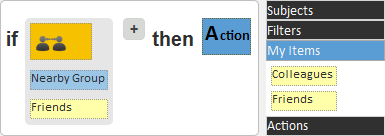
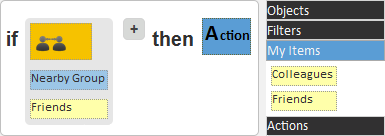
changed 'subject' label to 'object'

Changed region(s): [[0.6857, 0.0294, 0.8104, 0.1471]]

diff --git a/dime-personalserver/dime-communications/src/main/webapp/static/dime/rules/index.html b/dime-personalserver/dime-communications/src/main/webapp/static/dime/rules/index.html
@@ -675,7 +675,7 @@ function addConstraints(element){
 		var boxCode = "<div id='"+boxId+"' class='rulebox'>"+
 		"<div style='color:rgb(49, 48, 49); font-size:20px; font-weight:bold; font-family:Helvetica,Arial,sans-serif; margin-top:10px; margin-left:5px; margin-right:5px; float:left'>if</div> <div id='conditions_"+boxId+"'><div id='conditiondiv_1_"+boxId+"' class='conditionBox'></div></div><div><a href='#' name='newConditionButton' title='Add Another Condition' id='newConditionButton' class='newConditionButton'>+</a></div><div style='color:rgb(49, 48, 49); font-size:20px; font-weight:bold; font-family:Helvetica,Arial,sans-serif; margin-top:10px; margin-left:5px; margin-right:5px; float:left'>then</div> <div class='action'><span class='helper'>A</span><span class='helper3'>ction</span><span style='float:right'><input id='notificationText' type='text' style='width:300px; color:rgb(49, 48, 49); font-style:italic; height:20px; border: 1px dotted #000000; margin:5px 5px 5px 5px; word-wrap:break-word; padding:0px'></span></div><a href='#' name='"+boxId+"' id='saveButton' class='saveButton'>Save</a><br clear='all'/>"+
 		"</div>"+
-		"<div id='tutorialBox' class ='tutorialBox'><span style='float:left; background-color:rgb(246, 194, 0)'><img src='../img/metaData/info.png'><span style='vertical-align:middle' id='tipTitle' class='tipTitle'>Guide: Step 1</span><br><div id='tipBox' class='tipBox'><span id='tipText' style='text-align:center' class='tipText'>Select a Subject to start describing a condition e.g., 'Nearby People', from the list on the right. Drag it onto the yellow box on the left. </span></div><a href='#' style='float:right; vertical-align:middle' name='nextTipButton' id='nextTipButton' title='Show Next Tip' class='nextTipButton'>&gt;&gt; Go to Step 2</a></span><div style='float:left'><img id='tutorial' src='../../images/rules/tutorial/tutorial0_faded.png' alt='5-step Guidelines'></div></div>";
+		"<div id='tutorialBox' class ='tutorialBox'><span style='float:left; background-color:rgb(246, 194, 0)'><img src='../img/metaData/info.png'><span style='vertical-align:middle' id='tipTitle' class='tipTitle'>Guide: Step 1</span><br><div id='tipBox' class='tipBox'><span id='tipText' style='text-align:center' class='tipText'>Select an Object to start describing a condition e.g., 'Nearby People', from the list on the right. Drag it onto the yellow box on the left. </span></div><a href='#' style='float:right; vertical-align:middle' name='nextTipButton' id='nextTipButton' title='Show Next Tip' class='nextTipButton'>&gt;&gt; Go to Step 2</a></span><div style='float:left'><img id='tutorial' src='../../images/rules/tutorial/tutorial0_faded.png' alt='5-step Guidelines'></div></div>";
 		currentRuleId = boxId;
 
 		return boxCode;
@@ -703,7 +703,7 @@ function addConstraints(element){
 		var conditionButtonId = "addConditionButton_"+id;
 		currentConditionId = "condition_"+thisCounter+"_"+id;
 		
-		var textbox = "<div class='autocompleteFillInCondition' id='"+conditionId+"' data-typeid='-1'><span class='helper'>S</span><span class='helper3'>ubject</span></div><div class='constraintBox' id='constraintdiv_"+thisCounter+"_"+conditionId+"'></div>"
+		var textbox = "<div class='autocompleteFillInCondition' id='"+conditionId+"' data-typeid='-1'><span class='helper'>O</span><span class='helper3'>bject</span></div><div class='constraintBox' id='constraintdiv_"+thisCounter+"_"+conditionId+"'></div>"
 		$("#conditiondiv_"+thisCounter+"_"+id).append(textbox);
 		$("#conditions_"+id).append("<div id='"+divId+"' class='conditionBox'></div>");
 		constraintBox(conditionId,thisCounter);		
@@ -758,7 +758,7 @@ function addConstraints(element){
 											document.getElementById('tutorial').src = "../../images/rules/tutorial/tutorial1_faded.png";
 										    document.getElementById('nextTipButton').innerHTML = "&gt;&gt; Go to Step 3";
 											document.getElementById('tipTitle').innerHTML = "Guide: Step 2";
-											document.getElementById('tipText').innerHTML = "Select a Filter for the chosen subject e.g., 'Nearby Group', from the list on the right. Drag it onto the light-blue box on the left.";
+											document.getElementById('tipText').innerHTML = "Select a Filter for the chosen object e.g., 'Nearby Group', from the list on the right. Drag it onto the light-blue box on the left.";
 											
 											
 											
@@ -788,7 +788,7 @@ function addConstraints(element){
 											document.getElementById('tipTitle').innerHTML = "Guide: Step 1";
 												document.getElementById('tutorial').src = "../../images/rules/tutorial/tutorial0_faded.png";
 												tutorialCounter=0;
-											document.getElementById('tipText').innerHTML = "Select a Subject to start describing a condition e.g., 'Nearby People', from the list on the right. Drag it onto the yellow box on the left.";
+											document.getElementById('tipText').innerHTML = "Select an Object to start describing a condition e.g., 'Nearby People', from the list on the right. Drag it onto the yellow box on the left.";
 										   
 											}
 
@@ -1144,7 +1144,7 @@ function addConstraints(element){
     <a href="#" id="newRuleButton" class="createButton">Create Rule</a>
     </div>
     <div class="controlbox">
-    	<h3>Subjects</h3>
+    	<h3>Objects</h3>
         <div id="controlbox_Types">
         </div>
         <h3>Filters</h3>
